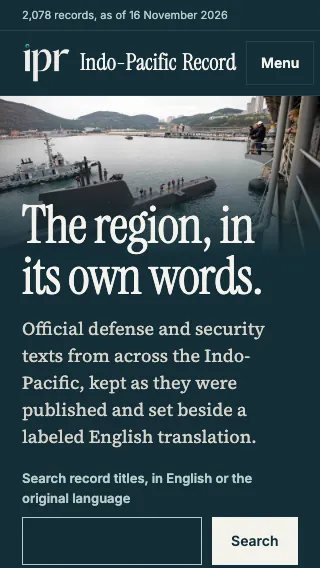
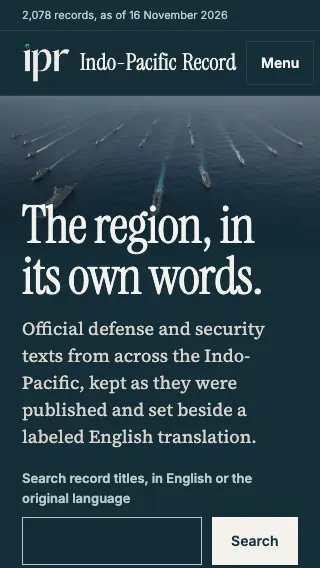
Show the homepage photograph as a band on tablets; recapture the home evidence
Up to 900px the photograph now sits as a band above the claim (it was the
phone layout only), so a tablet sees the formation in full instead of a
nearly solid navy stage. Search reach is asserted at 768x1024 and 820x1180
as well as the five phone sizes, and contrast still clears AA at all twelve
widths. output/index.html and home.css are re-rendered through the renderer;
the evidence captures and README show the Reagan photograph.

Changed region(s): [[0.0, 0.1496, 1.0, 0.419]]

diff --git a/output/index.html b/output/index.html
@@ -50,11 +50,8 @@
 
 <section class="home-open home-open--photo" aria-labelledby="home-title">
   <div class="home-stage">
-  <div class="home-photo" data-treatment="gradient">
-    <picture>
-      <source type="image/webp" srcset="assets/editorial/derivatives/dvids-8834151-800.webp 800w, assets/editorial/derivatives/dvids-8834151-1600.webp 1600w" sizes="100vw">
-      <img src="assets/editorial/derivatives/dvids-8834151-1600.jpg" width="1600" height="1000" alt="The South Korean submarine ROKS Ahn Jung-Geun lies alongside USS Emory S. Land in Busan." aria-describedby="home-photo-credit" fetchpriority="high" decoding="async" style="object-position:50% 65%">
-    </picture>
+  <div class="home-photo">
+    <img src="assets/frontend/pacific-fleet-1600.webp" srcset="assets/frontend/pacific-fleet-800.webp 800w, assets/frontend/pacific-fleet-1600.webp 1600w, assets/frontend/pacific-fleet-2500.webp 2500w" sizes="100vw" width="1600" height="1064" alt="" fetchpriority="high" decoding="async">
   </div>
   <div class="wrap home-open-grid">
     <div class="home-open-copy">
@@ -71,9 +68,9 @@
   </div>
   <div class="home-photo-credit" id="home-photo-credit">
     <div class="wrap">
-      <p class="home-photo-label">Illustrative photograph, not a record. It appears with <a href="briefs/south-korea-nuclear-submarine-strategy-fuel-2026.html">Brief No. 26</a>.</p>
-      <p>The conventionally powered ROKS Ahn Jung-Geun alongside USS Emory S. Land at Busan on November 15, 2024. The photo illustrates South Korea’s existing submarine fleet. Photographed November 15, 2024; historical context.</p>
-<p>Photo: Mass Communication Specialist Seaman Apprentice Ethan Lambert, U.S. Navy · <a href="https://www.dvidshub.net/about/copyright" rel="noopener">Public domain</a> · via <a href="https://www.dvidshub.net/image/8834151/roks-ahn-jung-geun-moors-alongside-emory-s-land" rel="noopener">DVIDS</a>. Cropped and resized by IPR; IPR gradient overlaid. Visual context, not evidence. The appearance of U.S. Department of War (DoW) visual information does not imply or constitute DoW endorsement.</p>
+      <p class="home-photo-label">Illustrative photograph, not a record.</p>
+      <p>Ships of the Ronald Reagan Carrier Strike Group and the Japan Maritime Self-Defense Force under way in formation, 23 November 2015.</p>
+      <p>Photo: Mass Communication Specialist 3rd Class Nathan Burke, U.S. Navy (151123-N-OI810-363) · <a href="https://www.copyright.gov/title17/92chap1.html#105">Public domain</a> · via <a href="https://commons.wikimedia.org/wiki/File:Ronald_Reagan_Carrier_Strike_Group_and_Japan_Maritime_Self-Defense_Force,_November_23,_2015.jpg">Wikimedia Commons</a>. Cropped and resized by IPR; IPR gradient overlaid. Visual context, not evidence.</p>
     </div>
   </div>
 </section>
@@ -149,7 +146,11 @@
 <section id="analysis" class="wrap home-section home-briefs" aria-labelledby="latest-analysis">
   <div class="home-head"><div><p class="evidence evidence--analysis">Human-controlled analysis</p><h2 id="latest-analysis">Briefs</h2></div><a href="analysis.html">All Briefs</a></div>
   <div class="home-briefs-grid">
-    <article class="home-feature">
+    <article class="home-feature home-feature--photo">
+      <figure class="home-feature-photo" data-treatment="gradient">
+        <a href="briefs/south-korea-nuclear-submarine-strategy-fuel-2026.html"><img src="assets/catalogue/media/no-26-dvids-8834151.jpg" width="720" height="480" alt="The South Korean submarine ROKS Ahn Jung-Geun lies alongside USS Emory S. Land in Busan." loading="lazy" decoding="async"></a>
+        <figcaption><p>The conventionally powered ROKS Ahn Jung-Geun alongside USS Emory S. Land at Busan on November 15, 2024. The photo illustrates South Korea’s existing submarine fleet. Photographed November 15, 2024; historical context.</p>
+<p>Photo: Mass Communication Specialist Seaman Apprentice Ethan Lambert, U.S. Navy · <a href="https://www.dvidshub.net/about/copyright" rel="noopener">Public domain</a> · via <a href="https://www.dvidshub.net/image/8834151/roks-ahn-jung-geun-moors-alongside-emory-s-land" rel="noopener">DVIDS</a>. Cropped and resized by IPR; IPR gradient overlaid. Visual context, not evidence. The appearance of U.S. Department of War (DoW) visual information does not imply or constitute DoW endorsement.</p></figcaption></figure>
       <div class="home-feature-copy">
         <p class="home-label">Latest Brief, No. 26</p>
         <h3><a href="briefs/south-korea-nuclear-submarine-strategy-fuel-2026.html">South Korea Sets Its Nuclear-Powered Submarine Timetable as Fuel Talks Continue</a></h3>

diff --git a/output/home.css b/output/home.css
@@ -20,7 +20,7 @@
 .home-open-note{margin:.9rem 0 0;font-size:.875rem;color:var(--band-muted);max-width:none}
 .home-open-note a{display:inline-flex;align-items:center;min-height:40px}
 .home-photo{position:absolute;inset:0;z-index:-1;margin:0;background:var(--band)}
-.home-photo img{display:block;width:100%;height:100%;object-fit:cover}
+.home-photo img{display:block;width:100%;height:100%;object-fit:cover;object-position:50% 80%}
 .home-photo::after{content:"";position:absolute;inset:0;background:linear-gradient(90deg,rgba(20,46,56,.95) 0%,rgba(20,46,56,.9) 50%,rgba(20,46,56,.5) 68%,rgba(20,46,56,.12) 100%),linear-gradient(0deg,rgba(20,46,56,.6) 0%,rgba(20,46,56,0) 40%)}
 .home-open--photo .home-open-grid{min-height:clamp(520px,46vw,660px);align-content:end;padding-block:clamp(72px,8vw,120px) clamp(44px,5vw,72px)}
 .home-open--photo .home-search input[type=search]{background:rgba(20,46,56,.72)}
@@ -72,18 +72,23 @@
   .home-open-grid{grid-template-columns:minmax(0,1fr)}
   .home-briefs-grid{grid-template-columns:minmax(0,1fr)}
 }
-@media(min-width:701px) and (max-width:1100px){
-  /* The copy column covers most of a tablet-width stage: hold the dark
+@media(min-width:901px) and (max-width:1100px){
+  /* The copy column covers most of a narrow desktop stage: hold the dark
      part of the gradient under all of it. */
   .home-photo::after{background:linear-gradient(90deg,rgba(20,46,56,.95) 0%,rgba(20,46,56,.92) 70%,rgba(20,46,56,.6) 88%,rgba(20,46,56,.3) 100%),linear-gradient(0deg,rgba(20,46,56,.6) 0%,rgba(20,46,56,0) 40%)}
 }
-@media(max-width:700px){
+@media(max-width:900px){
+  /* Phones and tablets: the photograph is a band above the claim, so it is
+     seen in full rather than darkened behind a copy column that fills most
+     of the stage. */
   .home-photo{position:relative;inset:auto;z-index:auto}
   .home-photo img{height:auto;aspect-ratio:16/10}
   .home-photo::after{background:linear-gradient(0deg,var(--band) 0%,rgba(20,46,56,.55) 30%,rgba(20,46,56,0) 62%)}
   .home-open--photo .home-open-grid{min-height:0;margin-top:-3.4rem;position:relative;padding-block:0 2.2rem}
   .home-open--photo .claim{margin-bottom:1rem}
   .home-open--photo .home-dek{margin-bottom:1.5rem}
+}
+@media(max-width:700px){
   .claim{max-width:none}
   .home-feature--photo{grid-template-columns:minmax(0,1fr)}
   .home-legend{grid-template-columns:minmax(0,1fr)}

diff --git a/site/preview/home.css b/site/preview/home.css
@@ -72,18 +72,23 @@
   .home-open-grid{grid-template-columns:minmax(0,1fr)}
   .home-briefs-grid{grid-template-columns:minmax(0,1fr)}
 }
-@media(min-width:701px) and (max-width:1100px){
-  /* The copy column covers most of a tablet-width stage: hold the dark
+@media(min-width:901px) and (max-width:1100px){
+  /* The copy column covers most of a narrow desktop stage: hold the dark
      part of the gradient under all of it. */
   .home-photo::after{background:linear-gradient(90deg,rgba(20,46,56,.95) 0%,rgba(20,46,56,.92) 70%,rgba(20,46,56,.6) 88%,rgba(20,46,56,.3) 100%),linear-gradient(0deg,rgba(20,46,56,.6) 0%,rgba(20,46,56,0) 40%)}
 }
-@media(max-width:700px){
+@media(max-width:900px){
+  /* Phones and tablets: the photograph is a band above the claim, so it is
+     seen in full rather than darkened behind a copy column that fills most
+     of the stage. */
   .home-photo{position:relative;inset:auto;z-index:auto}
   .home-photo img{height:auto;aspect-ratio:16/10}
   .home-photo::after{background:linear-gradient(0deg,var(--band) 0%,rgba(20,46,56,.55) 30%,rgba(20,46,56,0) 62%)}
   .home-open--photo .home-open-grid{min-height:0;margin-top:-3.4rem;position:relative;padding-block:0 2.2rem}
   .home-open--photo .claim{margin-bottom:1rem}
   .home-open--photo .home-dek{margin-bottom:1.5rem}
+}
+@media(max-width:700px){
   .claim{max-width:none}
   .home-feature--photo{grid-template-columns:minmax(0,1fr)}
   .home-legend{grid-template-columns:minmax(0,1fr)}

diff --git a/tests/test_homepage_veil_contract.py b/tests/test_homepage_veil_contract.py
@@ -182,9 +182,10 @@ class TestTextOverTheVeilIsMeasuredAtItsGlyphs(VeilCase):
                 context.close()
 
     def test_the_title_search_is_in_the_first_screen_on_a_phone(self):
-        """The photograph must not push the search off a small phone's first
-        screen: the input and its button sit wholly inside the viewport."""
-        for width, height in ((320, 568), (360, 640), (375, 667), (375, 812), (414, 736)):
+        """The photograph must not push the search off a phone's or tablet's
+        first screen: the input and its button sit wholly inside the viewport."""
+        for width, height in ((320, 568), (360, 640), (375, 667), (375, 812), (414, 736),
+                              (768, 1024), (820, 1180)):
             context = self.browser.new_context(viewport={"width": width, "height": height})
             page = context.new_page()
             try:

diff --git a/docs/evidence/parallel-text-redesign-2026-11-16/README.md b/docs/evidence/parallel-text-redesign-2026-11-16/README.md
@@ -23,13 +23,17 @@ render, not the deployed site; nothing here is merged, deployed or live.
 | A dossier | `dossier/china-singapore-naval-cooperation.html` | `dossier-desktop.webp` | `dossier-mobile.webp` |
 | Korea reviewed translation | `korea-translations/156784297.html` | `korea-translation-desktop.webp` | `korea-translation-mobile.webp` |
 
-The photographic home, its first-screen captures and the Korea translation
-captures are from the committed `output/` at `e840e402f0`, served as it is
-committed. On the 320x568 first screen the title search ends at 565px. The
-rest are from `11e3832784`; later commits change those pages only in the home
-opening, the Briefs card on the home page (which no longer repeats the hero
-photograph), the Korea translation mark and the selected-records note on the
-Records page, which now hides when another scope is chosen.
+The photographic home and its first-screen captures show the stable homepage
+photograph (the U.S. Navy Reagan CSG and JMSDF formation, founder direction
+of 16 November). They are taken from the committed `output/` at the head that
+adds them, served as committed. On a 320x568 screen the title search ends at
+565px, and on 768x1024 at 892px. The Korea translation captures are from
+`e840e402f0`. The rest are from `11e3832784`. Later commits change those pages
+only in these ways:
+- the home opening;
+- the Korea translation mark;
+- the selected-records note on the Records page, which now hides when another
+  scope is chosen.
 
 At capture, every page had `document.documentElement.scrollWidth` equal to the
 viewport (no horizontal scroll at 375px) and logged no console errors.

diff --git a/docs/DESIGN_SYSTEM.md b/docs/DESIGN_SYSTEM.md
@@ -68,8 +68,9 @@ photographs of real scenes, never generated images or illustration:
   "Illustrative photograph, not a record": caption, creator and DoD ID,
   licence, source, the change note and "Visual context, not evidence". It
   carries no record mark, and no record appears in the opening. On phones
-  the photograph is a band above the claim, short enough that the title
-  search stays on the first screen.
+  and tablets (900px and narrower) the photograph is a band above the claim,
+  seen in full and short enough that the title search stays on the first
+  screen.
 - **Briefs**: catalogue cards and opened-Brief covers, as before.
 Records never carry source media.
 
